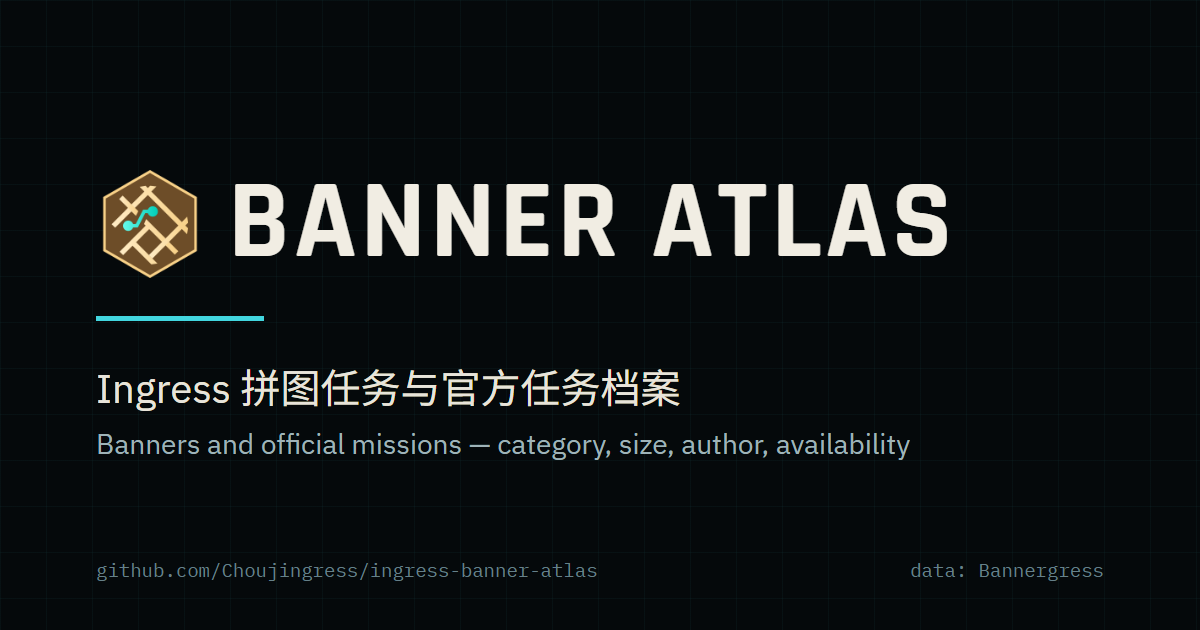
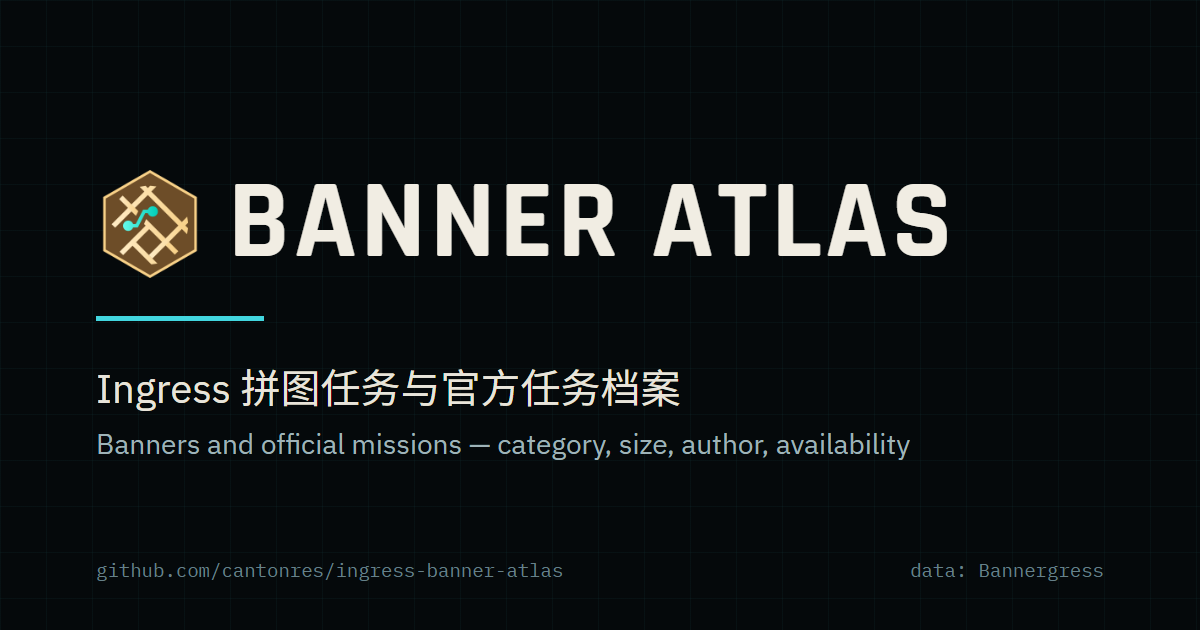
Point repository links at the cantonres organisation
The project is published under github.com/cantonres/ingress-banner-atlas,
but clone instructions, manifest URL, footer link, OG card and two test
assertions still referenced the personal Choujingress path (which does not
exist). Copyright notices for the modifications remain unchanged.

Changed region(s): [[0.185, 0.573, 0.555, 0.6635], [0.185, 0.8746, 0.4317, 0.9349], [0.4625, 0.9048, 0.4933, 0.9349]]

diff --git a/src/components/ArchiveStatusBar.jsx b/src/components/ArchiveStatusBar.jsx
@@ -50,7 +50,7 @@ export function ArchiveStatusBar({ meta = null }) {
           <img src={`${import.meta.env.BASE_URL}bannergress-logo.png`} alt="" aria-hidden="true" />
           <span className="sr-only">{t("bannergressSite")}</span>
         </a>
-        <a href="https://github.com/Choujingress/ingress-banner-atlas" target="_blank" rel="noreferrer" title={t("githubRepository")}>
+        <a href="https://github.com/cantonres/ingress-banner-atlas" target="_blank" rel="noreferrer" title={t("githubRepository")}>
           <Github size={24} aria-hidden="true" />
           <span className="sr-only">{t("githubRepository")}</span>
         </a>

diff --git a/tests-js/ui.test.js b/tests-js/ui.test.js
@@ -66,7 +66,7 @@ test("footer legal notices and external icon links are complete", () => {
   const footer = readFileSync(new URL("../src/components/ArchiveStatusBar.jsx", import.meta.url), "utf8");
   assert.match(footer, /https:\/\/ingress\.com\//);
   assert.match(footer, /https:\/\/bannergress\.com\//);
-  assert.match(footer, /https:\/\/github\.com\/Choujingress\/ingress-banner-atlas/);
+  assert.match(footer, /https:\/\/github\.com\/cantonres\/ingress-banner-atlas/);
 });
 
 test("mobile map starts unobstructed and keeps compact overlays available", () => {

diff --git a/tests-js/project-identity.test.js b/tests-js/project-identity.test.js
@@ -14,7 +14,7 @@ test("project identifiers stay consistent across manifest and lockfile", async (
   assert.equal(manifest.name, "ingress-banner-atlas");
   assert.equal(lock.name, manifest.name);
   assert.equal(lock.packages[""].name, manifest.name);
-  assert.equal(manifest.repository.url, `git+https://github.com/Choujingress/${manifest.name}.git`);
+  assert.equal(manifest.repository.url, `git+https://github.com/cantonres/${manifest.name}.git`);
 });
 
 test("Vite serves the application from the site root", () => {

diff --git a/scripts/og-card.html b/scripts/og-card.html
@@ -71,6 +71,6 @@
   <div class="accent"></div>
   <div class="zh">Ingress 拼图任务与官方任务档案</div>
   <div class="en">Banners and official missions — category, size, author, availability</div>
-  <div class="footer"><span>github.com/Choujingress/ingress-banner-atlas</span><span>data: Bannergress</span></div>
+  <div class="footer"><span>github.com/cantonres/ingress-banner-atlas</span><span>data: Bannergress</span></div>
 </body>
 </html>

diff --git a/README_EN.md b/README_EN.md
@@ -24,7 +24,7 @@ If you want to deploy it, choose a hosting platform yourself and add whatever co
 ### Start the development server
 
 ```bash
-git clone https://github.com/Choujingress/ingress-banner-atlas.git
+git clone https://github.com/cantonres/ingress-banner-atlas.git
 cd ingress-banner-atlas
 npm ci
 npm run dev

diff --git a/README_JA.md b/README_JA.md
@@ -24,7 +24,7 @@ Banner Atlas は、[Bannergress](https://bannergress.com/) に登録されてい
 ### 開発サーバーの起動
 
 ```bash
-git clone https://github.com/Choujingress/ingress-banner-atlas.git
+git clone https://github.com/cantonres/ingress-banner-atlas.git
 cd ingress-banner-atlas
 npm ci
 npm run dev
